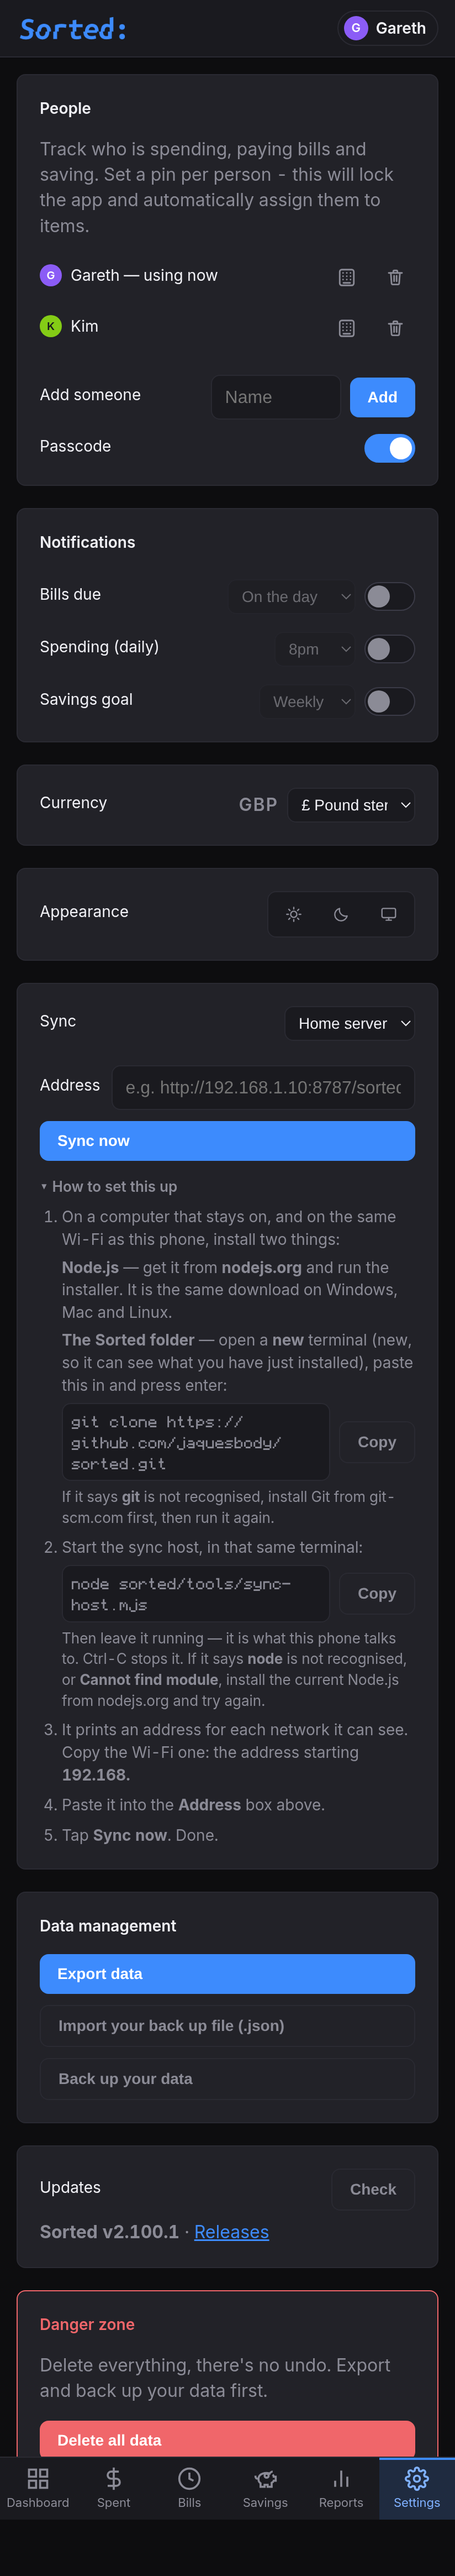
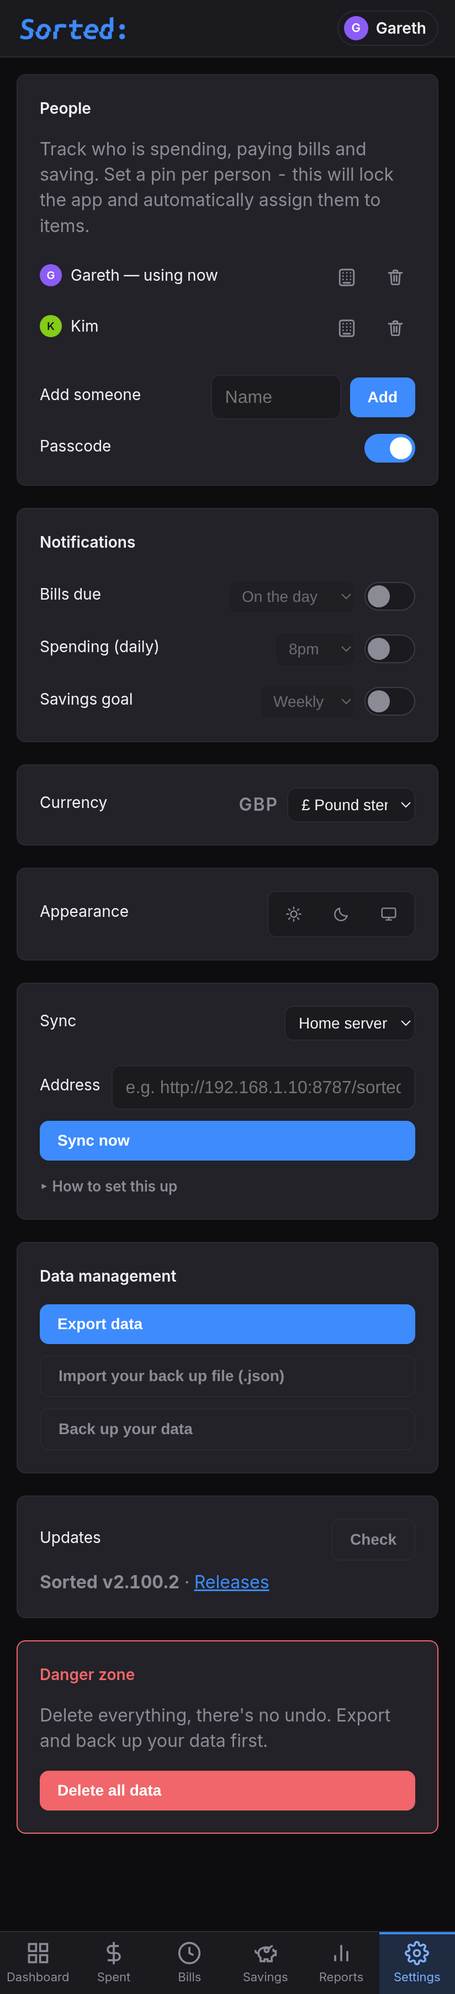
v2.100.2: the steps start folded, in your wording, with the two links
- "How to set this up" no longer opens itself on any of the four routes; it is
  a line to unfold, on every route, configured or not.
- No em dashes left in the four routes. A colon where a dash joined a lead-in,
  a full stop where it was an aside.
- nodejs.org links to nodejs.org/en/download, git-scm.com to
  git-scm.com/install. Both drawn like the app's other link: accent, no
  underline.
- "(new, so it can see what you have just installed)" removed; "new" stays.
- Everything after "Then leave it running." removed. One line under each
  command now, and only one.
- Tailscale carries its own two commands instead of pointing at Home server's
  steps. Its step 4 loses the prose and keeps the one line of address, which
  cannot be copied from anywhere because it has to be built by hand.
- Cloud's step 2 is the user's wording verbatim; its em dashes are gone.
- The Tailscale address wraps at its slash rather than mid-word.

Tests: 694 checks, all passing. Settings screenshot regenerated (the folded
steps take 950px off it). APK signed, versionCode 94.

Changed region(s): [[0.0303, 0.0, 1.0, 1.0]]

diff --git a/tools/harness/test.js b/tools/harness/test.js
@@ -5920,12 +5920,12 @@ async function runSuite(driverBase) {
         });
 
         let shape = cardOf(await draw(''));
-        t('withNoAddressTheStepsAreOpen', shape.details.open, true);
+        t('theStepsStartFolded', shape.details.open, false);
         t('andThereIsOneButton', JSON.stringify(shape.buttons), JSON.stringify(['Sync now']));
         t('andItIsOffUntilThereIsAnAddress', shape.syncDisabled, true);
 
         shape = cardOf(await draw('http://192.168.1.10:8787/sorted-snapshot.json'));
-        t('anAddressFoldsThemAway', shape.details.open, false);
+        t('andStayFoldedOnceTheQuestionIsAnswered', shape.details.open, false);
         t('andStillOnlyOneButton', JSON.stringify(shape.buttons), JSON.stringify(['Sync now']));
         t('andTheStepsSurviveToBeOpened', /node sorted\\/tools\\/sync-host\\.mjs/.test(shape.details.textContent), true);
 
@@ -5952,11 +5952,11 @@ async function runSuite(driverBase) {
         && failure.detail.aDeadHostSaysSo.pass
         && failure.detail.andNeverShowsTheBrowserWording.pass
         && failure.detail.andStillKeepsTheRawWording.pass, failure);
-      check('the Sync card is one field and one button, with the steps folded away once they have been followed',
-        failure.detail.withNoAddressTheStepsAreOpen.pass
+      check('the Sync card is one field and one button, with the steps folded away on every route',
+        failure.detail.theStepsStartFolded.pass
         && failure.detail.andThereIsOneButton.pass
         && failure.detail.andItIsOffUntilThereIsAnAddress.pass
-        && failure.detail.anAddressFoldsThemAway.pass
+        && failure.detail.andStayFoldedOnceTheQuestionIsAnswered.pass
         && failure.detail.andStillOnlyOneButton.pass
         && failure.detail.andTheStepsSurviveToBeOpened.pass, failure);
       check('and pasting the address turns the button on — it used not to',
@@ -6021,7 +6021,7 @@ async function runSuite(driverBase) {
         t('aFolderRouteDrawsNoAddressBox', document.getElementById('sync-url') === null, true);
         t('andSaysWhatToDoInstead', (document.getElementById('sync-folder') || {}).textContent.trim(), 'Choose folder');
         t('andCannotSyncYet', c.querySelector('.btn-primary').disabled, true);
-        t('andShowsTheStepsThatAnswerIt', c.querySelector('details.setup-steps').open, true);
+        t('andKeepsTheStepsThatAnswerItFolded', c.querySelector('details.setup-steps').open, false);
 
         // (c) No folder, no sync — in words, rather than a request to nowhere.
         setSyncSettings({ transport: 'cloud' });
@@ -6094,7 +6094,7 @@ async function runSuite(driverBase) {
         && folderRoute.detail.aFolderRouteDrawsNoAddressBox.pass
         && folderRoute.detail.andSaysWhatToDoInstead.pass
         && folderRoute.detail.andCannotSyncYet.pass
-        && folderRoute.detail.andShowsTheStepsThatAnswerIt.pass
+        && folderRoute.detail.andKeepsTheStepsThatAnswerItFolded.pass
         && folderRoute.detail.syncRefusesWithoutAFolder.pass, folderRoute);
       check('choosing a folder is the whole setup, and the steps fold away once it is done',
         folderRoute.detail.theChosenFolderIsKept.pass
@@ -6198,13 +6198,31 @@ async function runSuite(driverBase) {
         t('andTheSecondStartsTheHost', copies[1].querySelector('code').textContent.trim(), 'node sorted/tools/sync-host.mjs');
         t('noCommandIsLeftAsBareCode', [...details.querySelectorAll('code')].every((el) => !!el.closest('.setup-copy')), true);
         t('andTheStepsSayWhereNodeComesFrom', /nodejs\\.org/.test(details.textContent), true);
-        t('andGiveTheWindowsAnswerForGit', /git is not recognised|Git from git-scm\\.com/.test(details.textContent), true);
-        // The other thing that goes wrong, in the place it goes wrong: Node not
-        // installed, or too old for the module prefix the host uses.
-        t('andTheAnswerForNodeBeingMissingOrOld', /Cannot find module/.test(details.textContent), true);
+        t('andGiveTheWindowsAnswerForGit', /git is not recognised/.test(details.textContent), true);
+
+        // Both downloads are links to the page they are installed from, on the
+        // user's ask. nodejs.org was set in bold, which names the site without
+        // going there, and "install Git from git-scm.com" read the same way.
+        const linkTo = (text, href) => [...details.querySelectorAll('a')]
+          .some((a) => a.textContent.trim() === text && a.getAttribute('href') === href);
+        t('andNodeIsALinkToItsDownloadPage', linkTo('nodejs.org', 'https://nodejs.org/en/download'), true);
+        t('andSoIsGit', linkTo('git-scm.com', 'https://git-scm.com/install/'), true);
+
+        // One line under each command and nothing more. Two explanations were
+        // taken out at the user's ask, as wordy: why the terminal has to be new,
+        // and what to do when Node is missing or too old.
+        t('oneLineUnderEachCommand', [...details.querySelectorAll('.setup-aside')]
+          .map((a) => a.textContent.trim()),
+          ['If it says git is not recognised, install Git from git-scm.com first, then run it again.',
+            'Then leave it running.']);
+        t('andNoLeftoverExplanations', /so it can see|Cannot find module/.test(details.textContent), false);
 
         // Copying. With a clipboard it writes to it; without one the command is
-        // selected and the button stops claiming it copied.
+        // selected and the button stops claiming it copied. The reader has the
+        // steps open by the time they press it, and a selection can only be made
+        // over rendered content, so they are unfolded here rather than clicked
+        // inside a folded panel.
+        details.open = true;
         window.__copied = null;
         Object.defineProperty(navigator, 'clipboard', {
           configurable: true,
@@ -6231,8 +6249,35 @@ async function runSuite(driverBase) {
         t('theFolderRoutesAskForNoTerminal', /node|git |terminal/i.test(cloudSteps.textContent), false);
         t('andHaveNothingToCopy', cloudSteps.querySelectorAll('.setup-copy').length, 0);
         t('andTheCloudStepsNameTheDrivesTheUserNames', /Proton Drive/.test(cloudSteps.textContent), true);
+        t('andSayWhatToDoToTheFolder',
+          /Tap Choose folder above and then create\\/locate a specific Sorted folder inside that drive\\./
+            .test(cloudSteps.textContent), true);
         c = await draw({ transport: 'syncthing' });
         t('andTheSyncthingStepsUseTheFolderButton', /Choose folder/.test(c.querySelector('details.setup-steps').textContent), true);
+        window.syncFolderPlugin = realLookup;
+
+        // Tailscale carries its own setup rather than pointing at Home server's
+        // steps, which sent the reader back and forth between two lists.
+        const tsCard = await draw({ transport: 'tailscale' });
+        const tsSteps = tsCard.querySelector('details.setup-steps');
+        t('tailscaleCarriesItsOwnTwoCommands', tsSteps.querySelectorAll('.setup-copy').length, 2);
+        t('andSendsTheReaderNowhereElse', /steps 1 and 2|Home server steps/.test(tsSteps.textContent), false);
+        // The address there is the one thing that has to be built by hand rather
+        // than pasted, so the shape stays under the step: a Tailscale address is
+        // an IP with the port and the file's path after it.
+        t('andShowsTheAddressShapeToCopy',
+          /http:\\/\\/100\\.101\\.102\\.103:8787\\/sorted-snapshot\\.json/.test(tsSteps.textContent), true);
+
+        // No em dashes in the card, on any route. The user asked for them out of
+        // the steps in as many words; the rest of the card is swept with them
+        // because the same hand writes both.
+        const dashed = [];
+        window.syncFolderPlugin = () => ({});
+        for (const route of ['lan', 'tailscale', 'syncthing', 'cloud']) {
+          const rc = await draw({ transport: route });
+          if (/—/.test(rc.textContent)) dashed.push(route);
+        }
+        t('andNoEmDashOnAnyRoute', dashed, []);
         window.syncFolderPlugin = realLookup;
 
         // The placeholder has to say it is an example. The Tailscale one used to
@@ -6250,7 +6295,7 @@ async function runSuite(driverBase) {
         localStorage.removeItem('sorted-sync-backup');
         return { checks: Object.keys(out).length, failures: Object.entries(out).filter(([, v]) => !v.pass).map(([k]) => k), detail: out };
       `);
-      check('each setup command is boxed with its own Copy button, and says where it goes wrong',
+      check('each setup command is boxed with its own Copy button, and one line follows it',
         stepsUi.detail.theCommandsAreSetApartFromTheSentence.pass
         && stepsUi.detail.andEachHasACopyButton.pass
         && stepsUi.detail.andTheFirstIsTheClone.pass
@@ -6258,7 +6303,10 @@ async function runSuite(driverBase) {
         && stepsUi.detail.noCommandIsLeftAsBareCode.pass
         && stepsUi.detail.andTheStepsSayWhereNodeComesFrom.pass
         && stepsUi.detail.andGiveTheWindowsAnswerForGit.pass
-        && stepsUi.detail.andTheAnswerForNodeBeingMissingOrOld.pass, stepsUi);
+        && stepsUi.detail.andNodeIsALinkToItsDownloadPage.pass
+        && stepsUi.detail.andSoIsGit.pass
+        && stepsUi.detail.oneLineUnderEachCommand.pass
+        && stepsUi.detail.andNoLeftoverExplanations.pass, stepsUi);
       check('and Copy copies it — or selects it and says so where there is no clipboard',
         stepsUi.detail.theCopyButtonCopiesTheCommandBesideIt.pass
         && stepsUi.detail.andWithoutAClipboardItSelectsInstead.pass
@@ -6267,7 +6315,13 @@ async function runSuite(driverBase) {
         stepsUi.detail.theFolderRoutesAskForNoTerminal.pass
         && stepsUi.detail.andHaveNothingToCopy.pass
         && stepsUi.detail.andTheCloudStepsNameTheDrivesTheUserNames.pass
+        && stepsUi.detail.andSayWhatToDoToTheFolder.pass
         && stepsUi.detail.andTheSyncthingStepsUseTheFolderButton.pass, stepsUi);
+      check('and Tailscale\'s steps stand on their own, and no route uses an em dash',
+        stepsUi.detail.tailscaleCarriesItsOwnTwoCommands.pass
+        && stepsUi.detail.andSendsTheReaderNowhereElse.pass
+        && stepsUi.detail.andShowsTheAddressShapeToCopy.pass
+        && stepsUi.detail.andNoEmDashOnAnyRoute.pass, stepsUi);
       check('the address boxes show an example, and no longer spell out x.y.z',
         stepsUi.detail.theAddressPlaceholderSaysItIsAnExample.pass
         && stepsUi.detail.andTheTailscaleOneNoLongerSpellsOutXyz.pass

diff --git a/docs/static/js/sync.js b/docs/static/js/sync.js
@@ -87,7 +87,7 @@ const SYNC_TRANSPORTS = {
   cloud: {
     label: 'Cloud',
     available: true,
-    blurb: 'A folder in your own drive — Google Drive, Proton Drive, OneDrive',
+    blurb: 'A folder in your own drive: Google Drive, Proton Drive, OneDrive',
     needsFolder: true
   }
 };
@@ -101,9 +101,16 @@ const SYNC_TRANSPORTS = {
 // Written to be followed by someone who has never opened a terminal, which is
 // where the first pass failed: it named the two things to install without saying
 // where from, and gave a command that only works from inside a folder nobody had
-// been told to stand in. The text below is the user's, with the gaps filled and
-// the two OS differences handled where they actually bite (Node must be
-// installed before the terminal is opened, and Git is not there on Windows).
+// been told to stand in. The text below is the user's, with the gaps filled.
+//
+// Two things were taken out at his ask and are worth not putting back: the
+// aside that explained why the terminal has to be new (the word "new" stays;
+// the reason reads as homework), and the aside about Node being missing or too
+// old, which he called wordy. What is left under each command is one line.
+//
+// The steps are his own wording, tidied: he asked for no em dashes in them, for
+// nodejs.org and git-scm.com to be links, and for Tailscale to carry its own
+// instructions rather than sending the reader back to Home server.
 
 // A line inside a step, set below the line above it. "Install two things" is not
 // one sentence, and run together it read like one.
@@ -137,15 +144,14 @@ function setupAside(html) {
 const SYNC_SETUP_STEPS = {
   lan: [
     'On a computer that stays on, and on the same Wi-Fi as this phone, install two things:'
-      + setupPart('<strong>Node.js</strong> — get it from <strong>nodejs.org</strong> and run the installer. It is the same download on Windows, Mac and Linux.')
-      + setupPart('<strong>The Sorted folder</strong> — open a <strong>new</strong> terminal (new, so it can see what you have just installed), paste this in and press enter:'
+      + setupPart('<strong>Node.js</strong>: get it from <a href="https://nodejs.org/en/download" target="_blank" rel="noopener">nodejs.org</a> and run the installer. It is the same download on Windows, Mac and Linux.')
+      + setupPart('<strong>The Sorted folder</strong>: open a <strong>new</strong> terminal, paste this in and press enter:'
         + setupCommand('git clone https://github.com/jaquesbody/sorted.git')
-        + setupAside('If it says <strong>git</strong> is not recognised, install Git from git-scm.com first, then run it again.')),
+        + setupAside('If it says <strong>git</strong> is not recognised, install Git from <a href="https://git-scm.com/install/" target="_blank" rel="noopener">git-scm.com</a> first, then run it again.')),
 
     'Start the sync host, in that same terminal:'
       + setupCommand('node sorted/tools/sync-host.mjs')
-      + setupAside('Then leave it running — it is what this phone talks to. Ctrl-C stops it.'
-        + ' If it says <strong>node</strong> is not recognised, or <strong>Cannot find module</strong>, install the current Node.js from nodejs.org and try again.'),
+      + setupAside('Then leave it running.'),
 
     'It prints an address for each network it can see. Copy the Wi-Fi one: the address starting <strong>192.168.</strong>',
 
@@ -156,12 +162,20 @@ const SYNC_SETUP_STEPS = {
   tailscale: [
     'Install and set up <strong>Tailscale</strong> on the computer that stays on and on this phone, sign in on both, and connect them.',
 
-    'On the computer, do <strong>steps 1 and 2 of Home server</strong> — install Node.js, get the Sorted folder, and start the sync host, leaving it running.',
+    'On that computer, install two things:'
+      + setupPart('<strong>Node.js</strong>: get it from <a href="https://nodejs.org/en/download" target="_blank" rel="noopener">nodejs.org</a> and run the installer.')
+      + setupPart('<strong>The Sorted folder</strong>: open a <strong>new</strong> terminal, paste this in and press enter:'
+        + setupCommand('git clone https://github.com/jaquesbody/sorted.git')
+        + setupAside('If it says <strong>git</strong> is not recognised, install Git from <a href="https://git-scm.com/install/" target="_blank" rel="noopener">git-scm.com</a> first, then run it again.')),
+
+    'Start the sync host, in that same terminal:'
+      + setupCommand('node sorted/tools/sync-host.mjs')
+      + setupAside('Then leave it running.'),
 
     'In Tailscale, find that computer\'s IP address. It starts with <strong>100.</strong>',
 
-    'Paste it into the <strong>Address</strong> box above like this, changing the example numbers for the ones you found:'
-      + setupPart('<code>http://100.101.102.103:8787/sorted-snapshot.json</code>'),
+    'Paste it into the <strong>Address</strong> box above:'
+      + setupPart('<code>http://100.101.102.103:8787/<wbr>sorted-snapshot.json</code>'),
 
     'Tap <strong>Sync now</strong>. Done.'
   ],
@@ -175,9 +189,9 @@ const SYNC_SETUP_STEPS = {
     'Repeat step 2 on the other devices. Done.'
   ],
   cloud: [
-    'Install and set up the drive you use — <strong>Google Drive</strong>, <strong>Proton Drive</strong>, <strong>OneDrive</strong> — and sign in.',
+    'Install and set up the drive you use: <strong>Google Drive</strong>, <strong>Proton Drive</strong> or <strong>OneDrive</strong>, and sign in.',
 
-    'Tap <strong>Choose folder</strong> above and locate a specific <strong>Sorted</strong> folder inside that drive.',
+    'Tap <strong>Choose folder</strong> above and then create/locate a specific <strong>Sorted</strong> folder inside that drive.',
 
     'Tap <strong>Sync now</strong>.',
 

diff --git a/docs/static/js/app.js b/docs/static/js/app.js
@@ -2,7 +2,7 @@
 
 // Single source for the version shown in the UI. Bump this together with
 // package.json and android/app/build.gradle.
-const APP_VERSION = '2.100.1';
+const APP_VERSION = '2.100.2';
 document.querySelectorAll('.app-version').forEach((el) => { el.textContent = 'v' + APP_VERSION; });
 
 let currentPage = 'dashboard';
@@ -1783,10 +1783,12 @@ function syncSettingsHtml() {
   // version that works: pick where, answer the one question that route asks —
   // an address, or a folder — and press Sync now.
   //
-  // The steps are the exception, and they are folded away rather than deleted:
-  // they are how that question gets answered, so a card that has not answered it
-  // needs them open and a card that has does not. Answering it again on every
-  // visit is what made this card read as homework.
+  // The steps are the exception, and they are folded away rather than deleted.
+  // They used to open themselves on a route that had not been answered yet, on
+  // the argument that they are how that question gets answered. The user asked
+  // for them closed on all four routes instead: a card that has read them once
+  // and come back later is the common case, and homework on every visit is what
+  // the whole simplification was undoing.
   //
   // The address field re-renders the card on change, for a smaller version of
   // the same thing: the button's enabled state is worked out when the card is
@@ -1830,7 +1832,7 @@ function syncSettingsHtml() {
     <button class="btn btn-primary" onclick="syncFromSettings(this)"
             style="width: 100%; margin-top: 10px;"
             ${ready ? '' : 'disabled'}>Sync now</button>
-    <details class="setup-steps"${ready ? '' : ' open'}>
+    <details class="setup-steps">
       <summary class="setup-steps-head">How to set this up</summary>
       <ol class="setup-steps-list">
         ${(SYNC_SETUP_STEPS[key] || []).map((step) => `<li>${step}</li>`).join('')}

diff --git a/docs/static/css/main.css b/docs/static/css/main.css
@@ -799,9 +799,10 @@ body {
   padding-top: 8px;
 }
 
-/* The steps are a <details>, folded away unless the card has no address yet:
-   they are how the address is found, so a card that needs one shows them and a
-   card that has one keeps the question and its answer apart. The marker is
+/* The steps are a <details>, folded away until the reader opens them. It used to
+   open itself on a route that had no address yet, since the steps are where the
+   address comes from; the user asked for it closed on every route instead, so
+   the card is one field and one button plus a line to unfold. The marker is
    replaced rather than styled — the default triangle is drawn outside the
    summary's own box, which is why it cannot be moved — and `list-style: none`
    plus the vendor rule is what hides it on every WebView this app runs in. */
@@ -854,6 +855,20 @@ body {
      mid-address instead of wrapping. This breaks one only when it has to, and
      leaves every shorter command on its own line. */
   overflow-wrap: break-word;
+}
+
+/* The two links in the steps — where Node.js comes from, and where Git does.
+   Drawn the way the app draws the other link it has, in the notice box: the
+   browser default is a blue the theme knows nothing about, and a step that
+   underlines a word mid-sentence reads as emphasis rather than as somewhere to
+   go. */
+.setup-steps-list a {
+  color: var(--accent);
+  text-decoration: none;
+}
+
+.setup-steps-list a:hover {
+  color: var(--accent-hover);
 }
 
 /* A line inside a step, set below the line above it. "Install two things" is not

diff --git a/README.md b/README.md
@@ -38,7 +38,7 @@ All six are the same household on a 412px phone viewport: Gareth and Kim, a curr
 - Sync, in Settings: keep a copy of everything on a machine that stays on, and take it with you when you change phone. The whole database goes as one file, and whichever device wrote it last is what the other one gets — so a bill you delete on one device stays deleted on the other, rather than coming back on the next sync. Before anything is replaced, the copy it replaced is kept, with a Restore button beside it
 - Setting it up is **one setting and one button**. Two routes take an address — **Home server** over your Wi-Fi, and **Tailscale** over your private network, the same file from anywhere — so you paste the address the host printed. The other two take **a folder**: **Syncthing** (a folder something else already keeps in step) and **Cloud** (a folder inside Google Drive, Proton Drive or OneDrive). Choose one of those and the address box is replaced by a single **Choose folder** button: tap it, pick a folder in Android's own picker, press **Sync now**. No storage permission is asked for and nothing is hard-coded, so it is the same three steps on any phone and any drive
 - Nobody has to work out what "Failed to fetch" means either. On the address routes, a sync that cannot reach the host asks the host itself and says which of the four things went wrong; on the folder routes the message is the folder's own — *"That folder is no longer there. Choose it again."* The toasts follow the route too, so a folder route says **Folder set up** rather than claiming a server
-- Underneath sits **the setup steps for whichever route is selected**, folded shut once the one question it answers has been answered — the address for the first two, the folder for the other two. They are written for someone who has never opened a terminal: they say where to get Node.js, each command sits in its own box with a **Copy** button beside it, and the one thing that goes wrong with each command is stated under it rather than in a paragraph at the end — *If it says **git** is not recognised…*, *If it says **node** is not recognised, or **Cannot find module**…*. The two folder routes ask for no terminal at all. In a browser the two folder routes are not offered at all, because a page cannot read a folder: listing them and then explaining that is how this card became unreadable once already
+- Underneath sits **the setup steps for whichever route is selected**, folded shut until you unfold them. They are written for someone who has never opened a terminal: nodejs.org and git-scm.com are links to the download pages, each command sits in its own box with a **Copy** button beside it, and one line under each command says the one thing that goes wrong with it — *If it says **git** is not recognised…*. Each route's list stands on its own, Tailscale included, rather than sending you back to another route's steps. The two folder routes ask for no terminal at all. In a browser the two folder routes are not offered at all, because a page cannot read a folder: listing them and then explaining that is how this card became unreadable once already
 - The folder is the transport, and it is the whole of it: Sorted reads and writes one `sorted-snapshot.json` in the folder you chose, and whatever keeps that folder in step — Syncthing, your drive app, a USB stick — carries it. Sorted has no server and no account in any of this; the file is in a drive you already have, reached through your own app. The permission is remembered across restarts, and choosing a different folder lets go of the last one, because Android holds only a handful of these per app
 - To run the other end of an address route, on any machine with Node: clone the folder and run `node sorted/tools/sync-host.mjs --dir ~/sorted-sync` — pointed at the file rather than standing in the folder, so it does not matter where the terminal is. The script is at `tools/sync-host.mjs`; `--dir` is the folder the one synced file lives in, and left off it goes to the system's temp folder, which a reboot can empty. It serves that one file over your Wi-Fi and nothing else — no database, no accounts, no history — and prints one address for each network the machine is on, the Wi-Fi one beginning `192.168.` among them, for pasting into Settings
 - Export offers three formats rather than one, because they do three different jobs: a **`.csv`** of every dated movement for Excel, Numbers or Google Sheets, a readable **`.txt`** statement grouped by month, and a **`.pdf`** of the same rows typeset. The **`.json` backup** — the only one Import can read back — is its own **Back up your data** button on the Data Management card, because a backup is a different question from a format for reading. Everything is saved through Android's own save screen, where you pick the folder and the file name, and is an ordinary download in a browser. The PDF is written by the app itself: no print dialog, no library, and no network
@@ -98,7 +98,7 @@ Served over HTTPS, Chrome will also offer to install it — there's a web manife
 
 ### Android (APK)
 
-Grab [`sorted-v2-2.100.1-debug.apk`](https://github.com/jaquesbody/sorted/releases/download/v2.100.1/sorted-v2-2.100.1-debug.apk) from the [releases page](https://github.com/jaquesbody/sorted/releases/latest) and sideload it (your phone will ask to allow installs from unknown sources). It's the same app wrapped in a WebView — fully offline, data stored on the phone. The phone build moves the six destinations into a bottom bar; append `?native` to the web URL to preview that layout in a desktop browser.
+Grab [`sorted-v2-2.100.2-debug.apk`](https://github.com/jaquesbody/sorted/releases/download/v2.100.2/sorted-v2-2.100.2-debug.apk) from the [releases page](https://github.com/jaquesbody/sorted/releases/latest) and sideload it (your phone will ask to allow installs from unknown sources). It's the same app wrapped in a WebView — fully offline, data stored on the phone. The phone build moves the six destinations into a bottom bar; append `?native` to the web URL to preview that layout in a desktop browser.
 
 APKs are build artefacts, so they live in releases rather than in this repo — every past build is still on the releases page.
 
